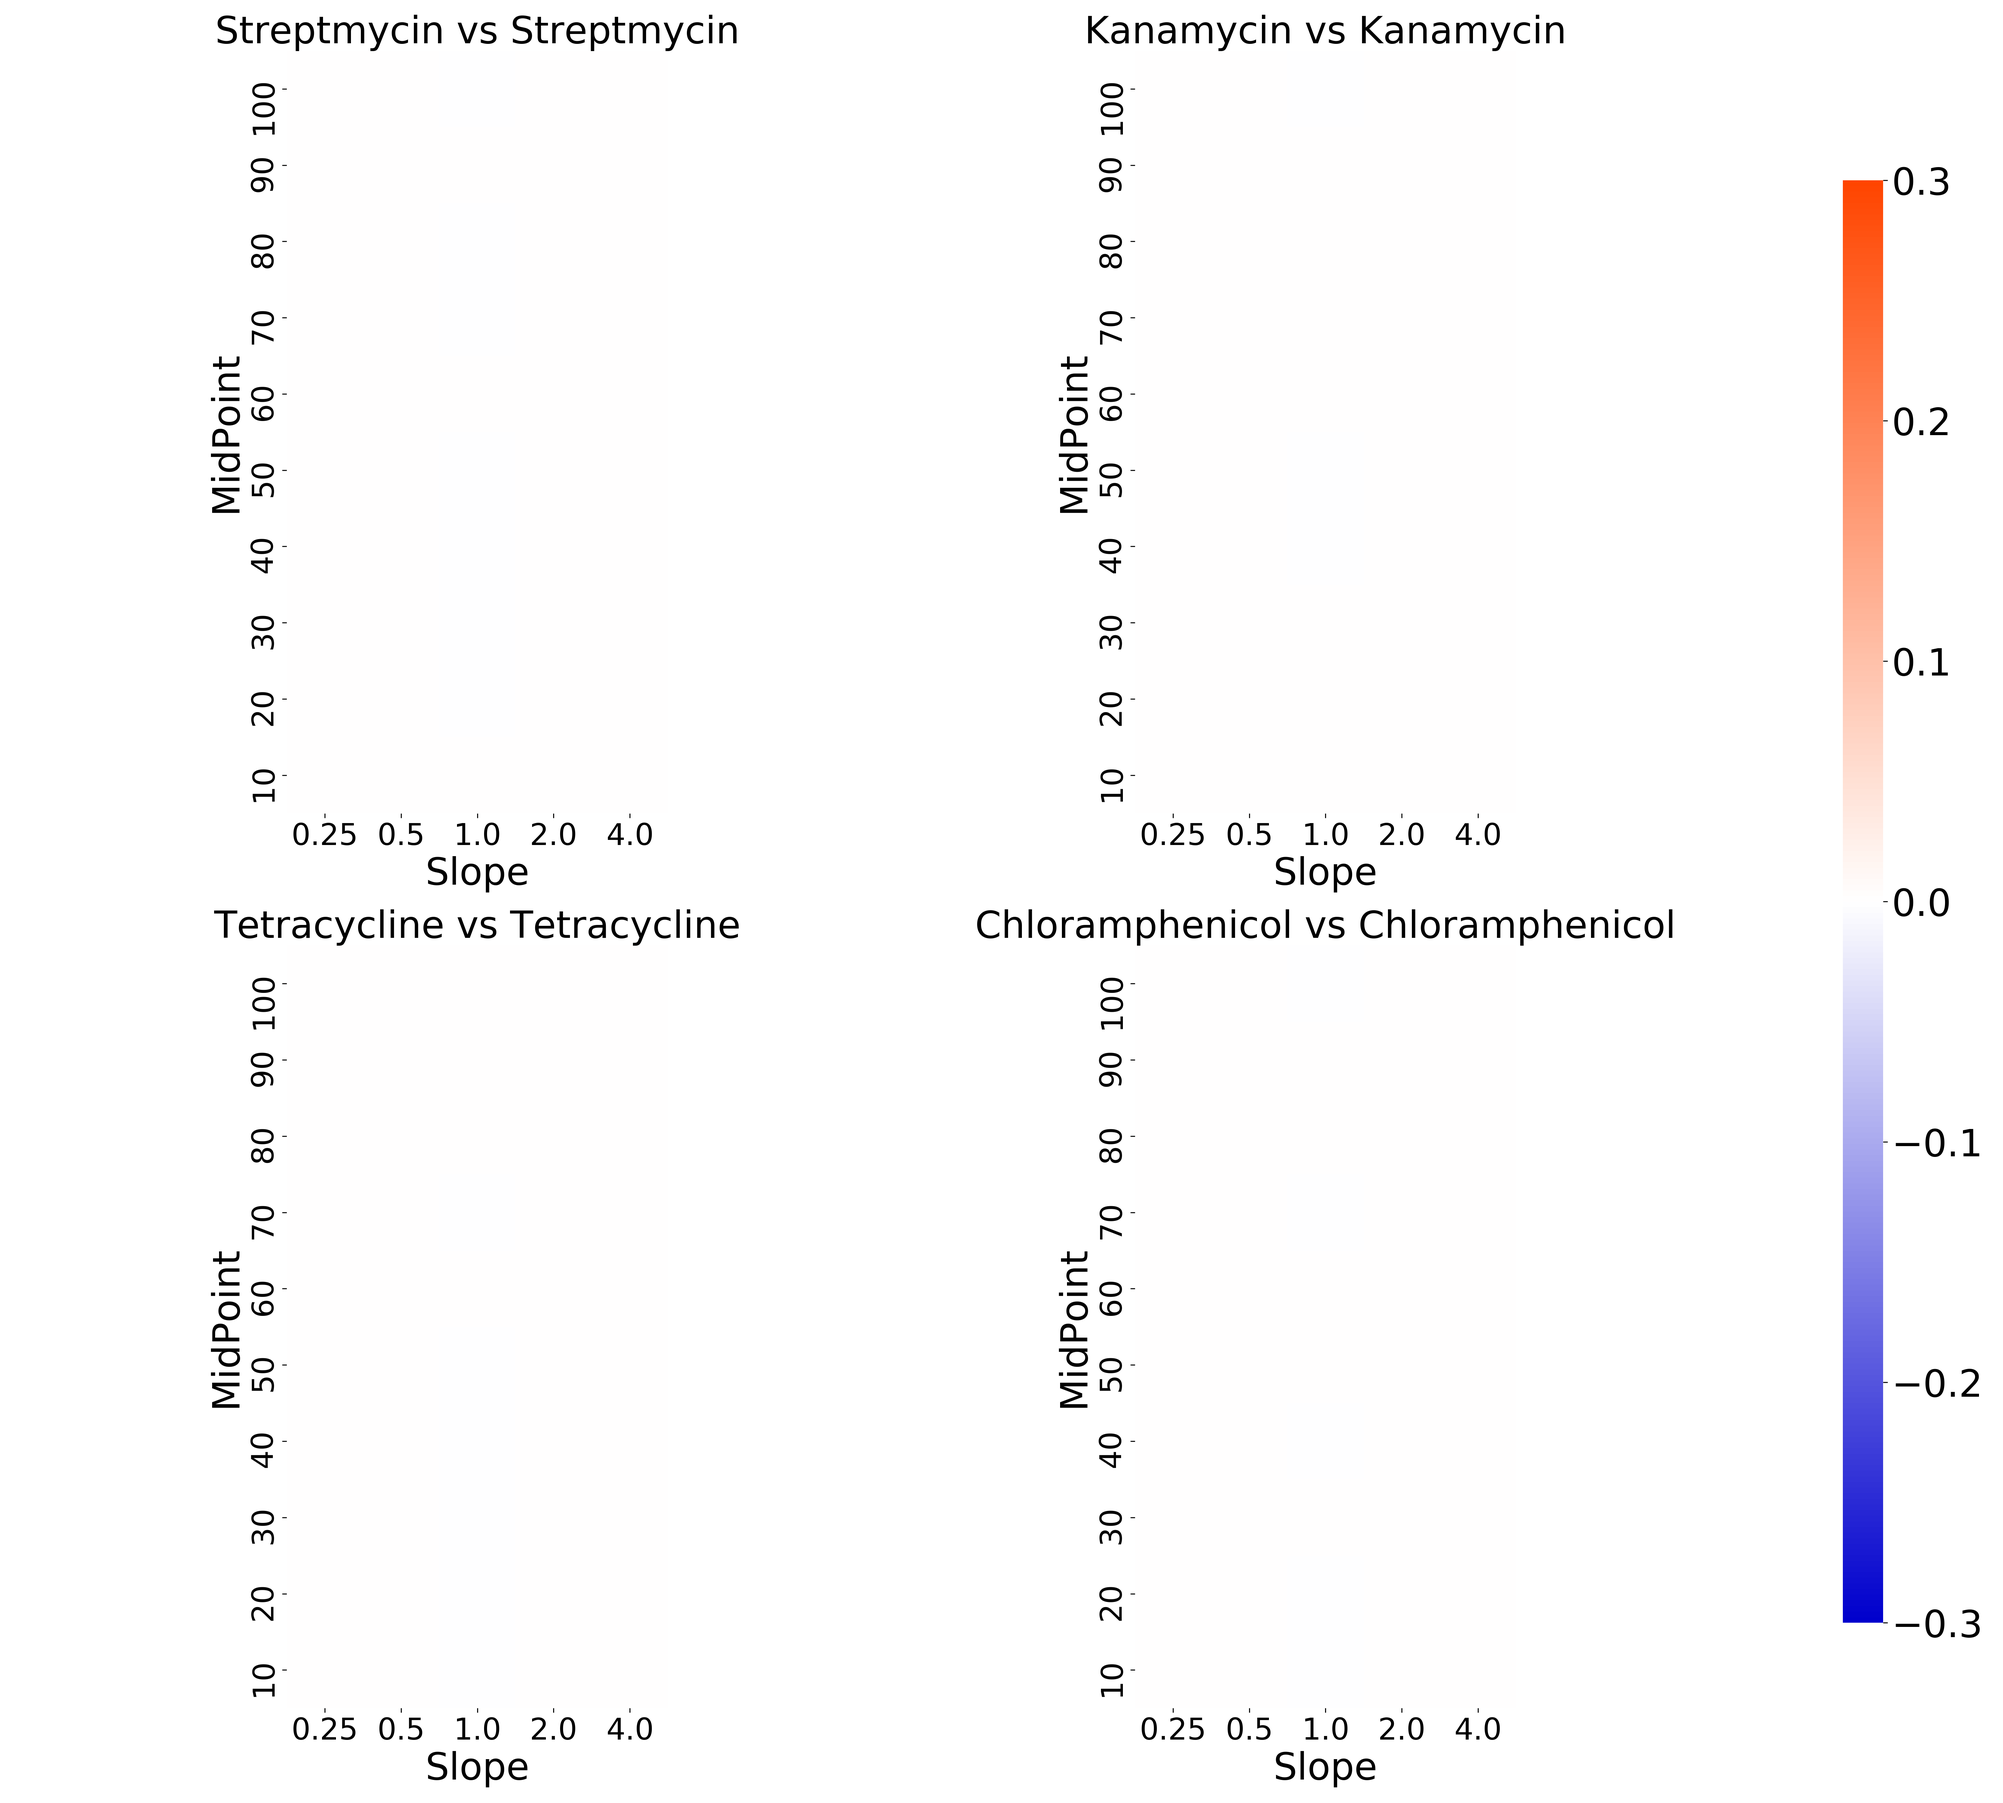
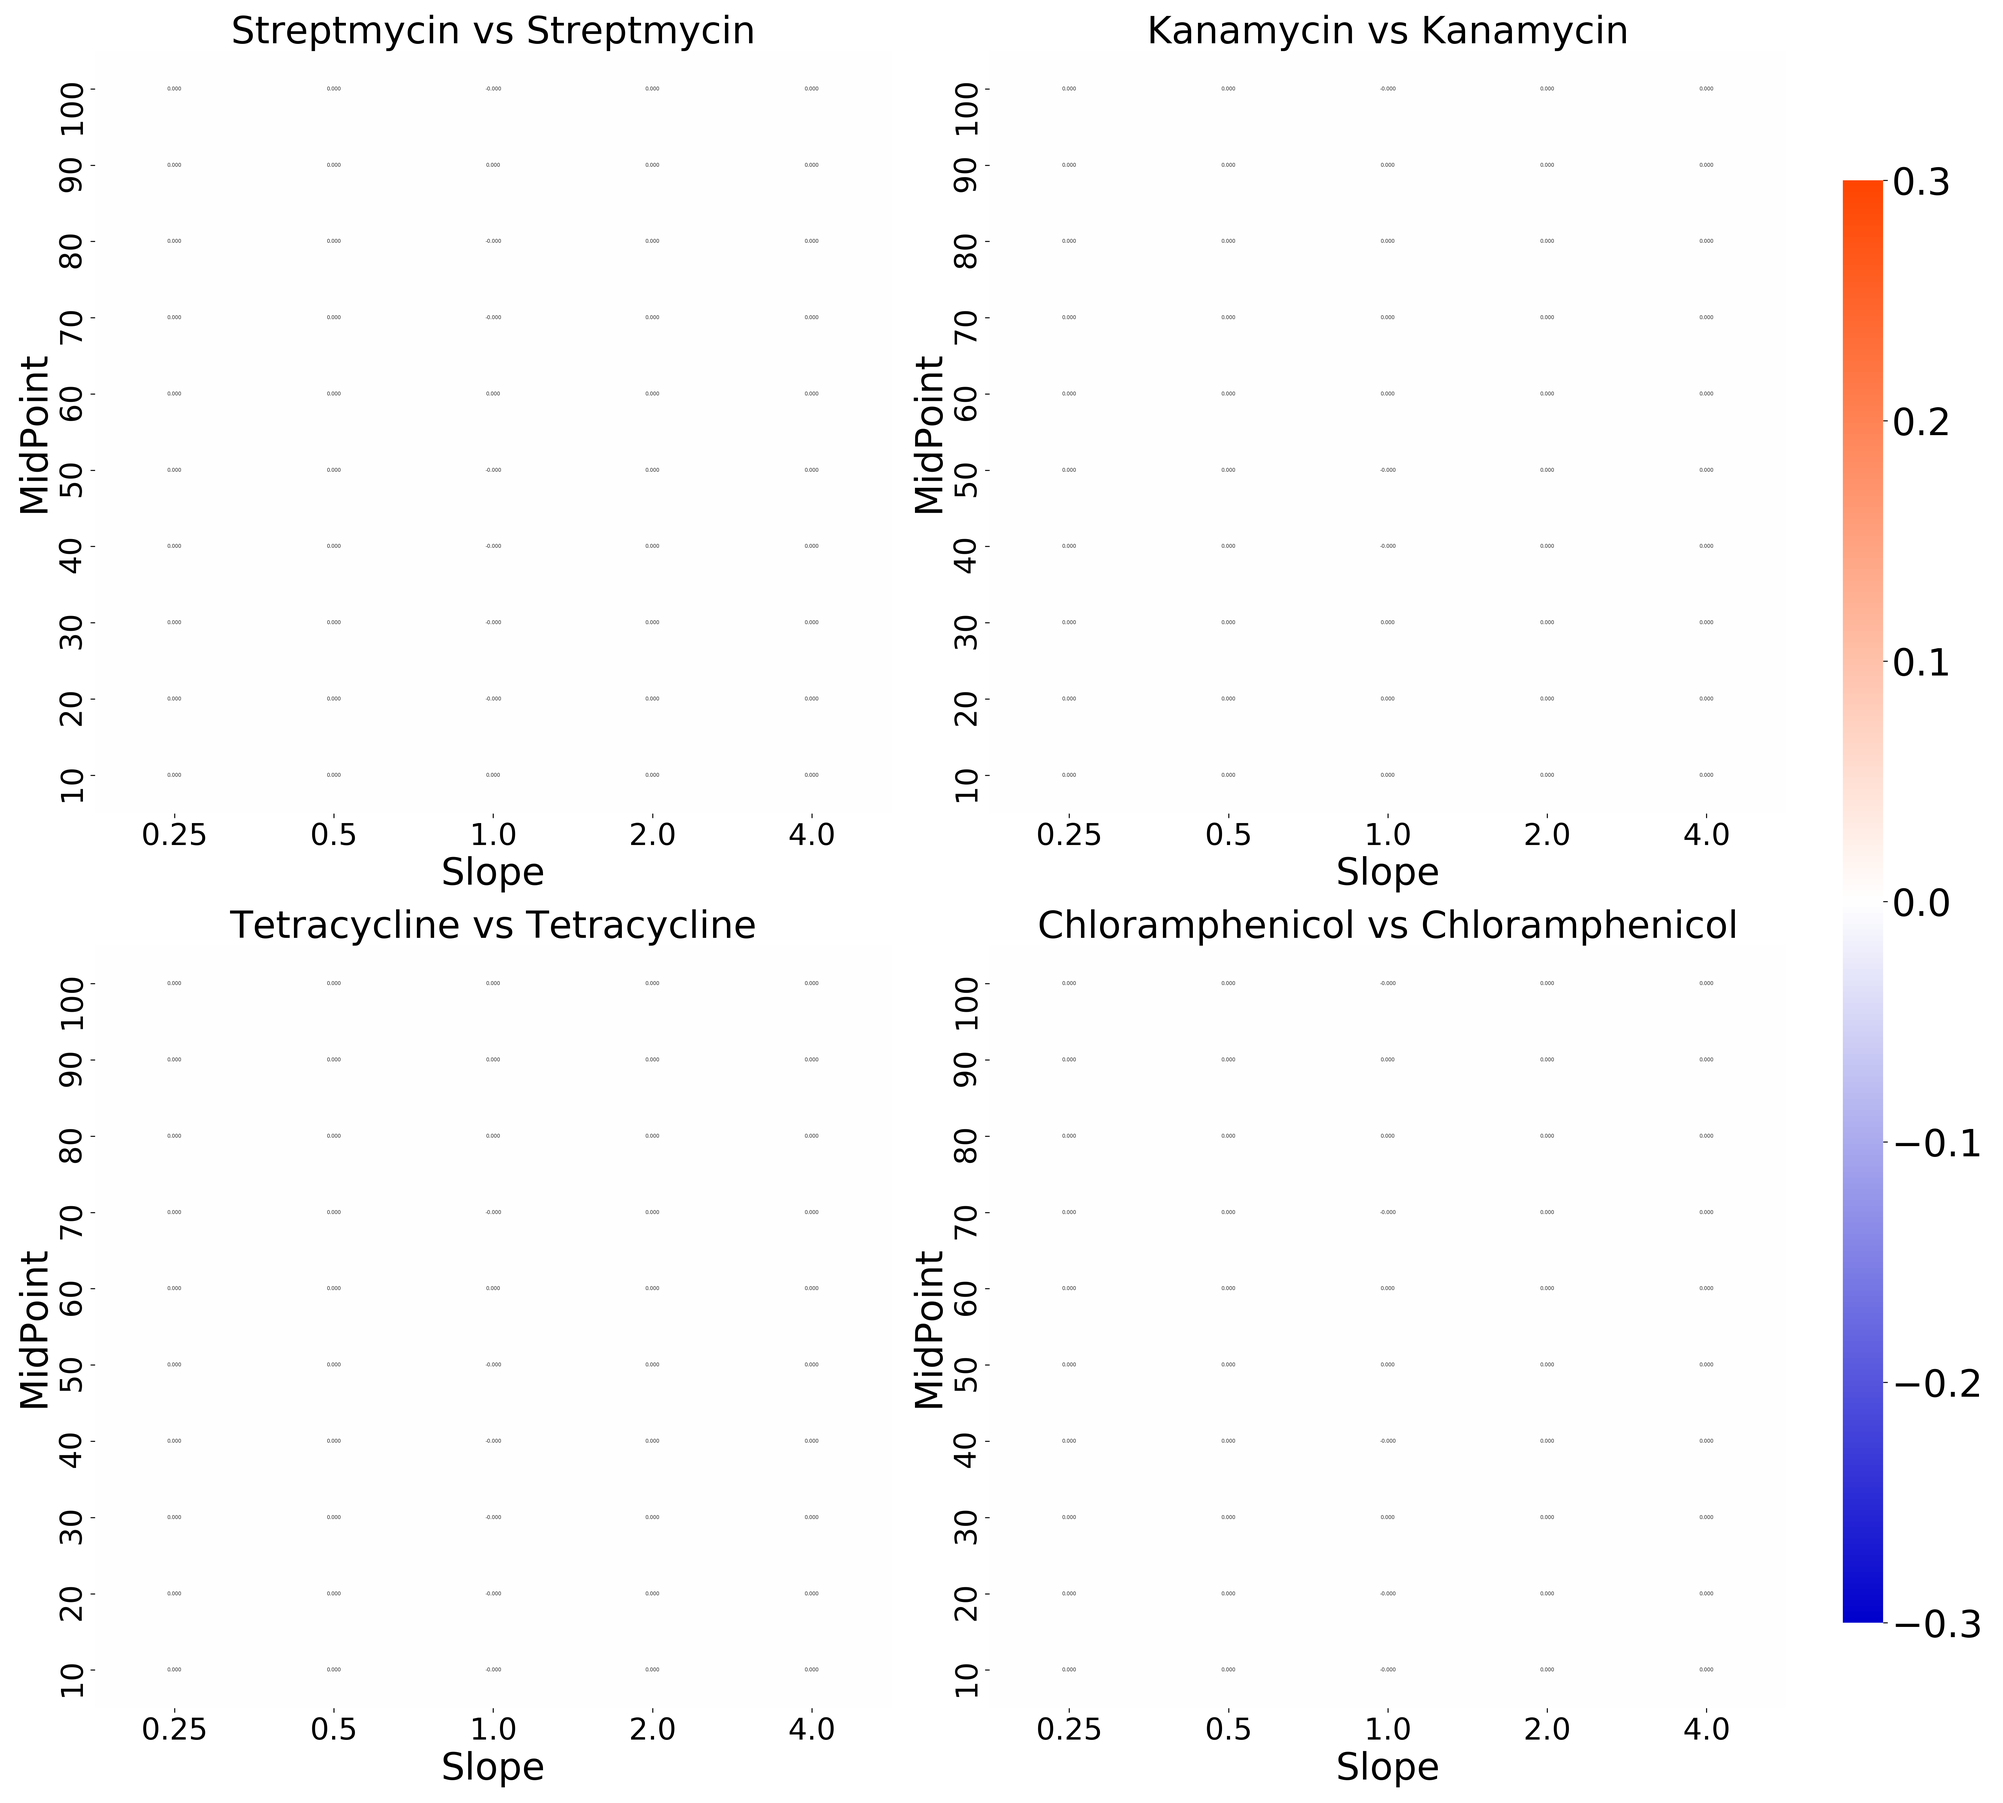
出力画像の修正
square = Falseに変更．annotを追加

diff --git a/run_ribo4.py b/run_ribo4.py
@@ -76,12 +76,14 @@ def createNewevalHeatmap(drugNames, dataLists, subplot, saveName):
                                      index = "MidPoint",
                                      columns = "Slope")
         ax = sns.heatmap(heatmapData,
+                         annot = True,
+                         annot_kws={"size": 4},
+                         fmt="1.3f",
                          cbar = index == 0,
                          cmap = cmap,
                          vmax = vmax,
                          vmin = vmin,
-                         cbar_ax = None if index else cbar_ax,
-                         square = True)
+                         cbar_ax = None if index else cbar_ax)
 
         ax.invert_yaxis() # y$B<4$N>e2<$rJQ$($k(B
         ax.set_ylabel("MidPoint", fontsize = 30) # y$B<4$N%i%Y%k(B
